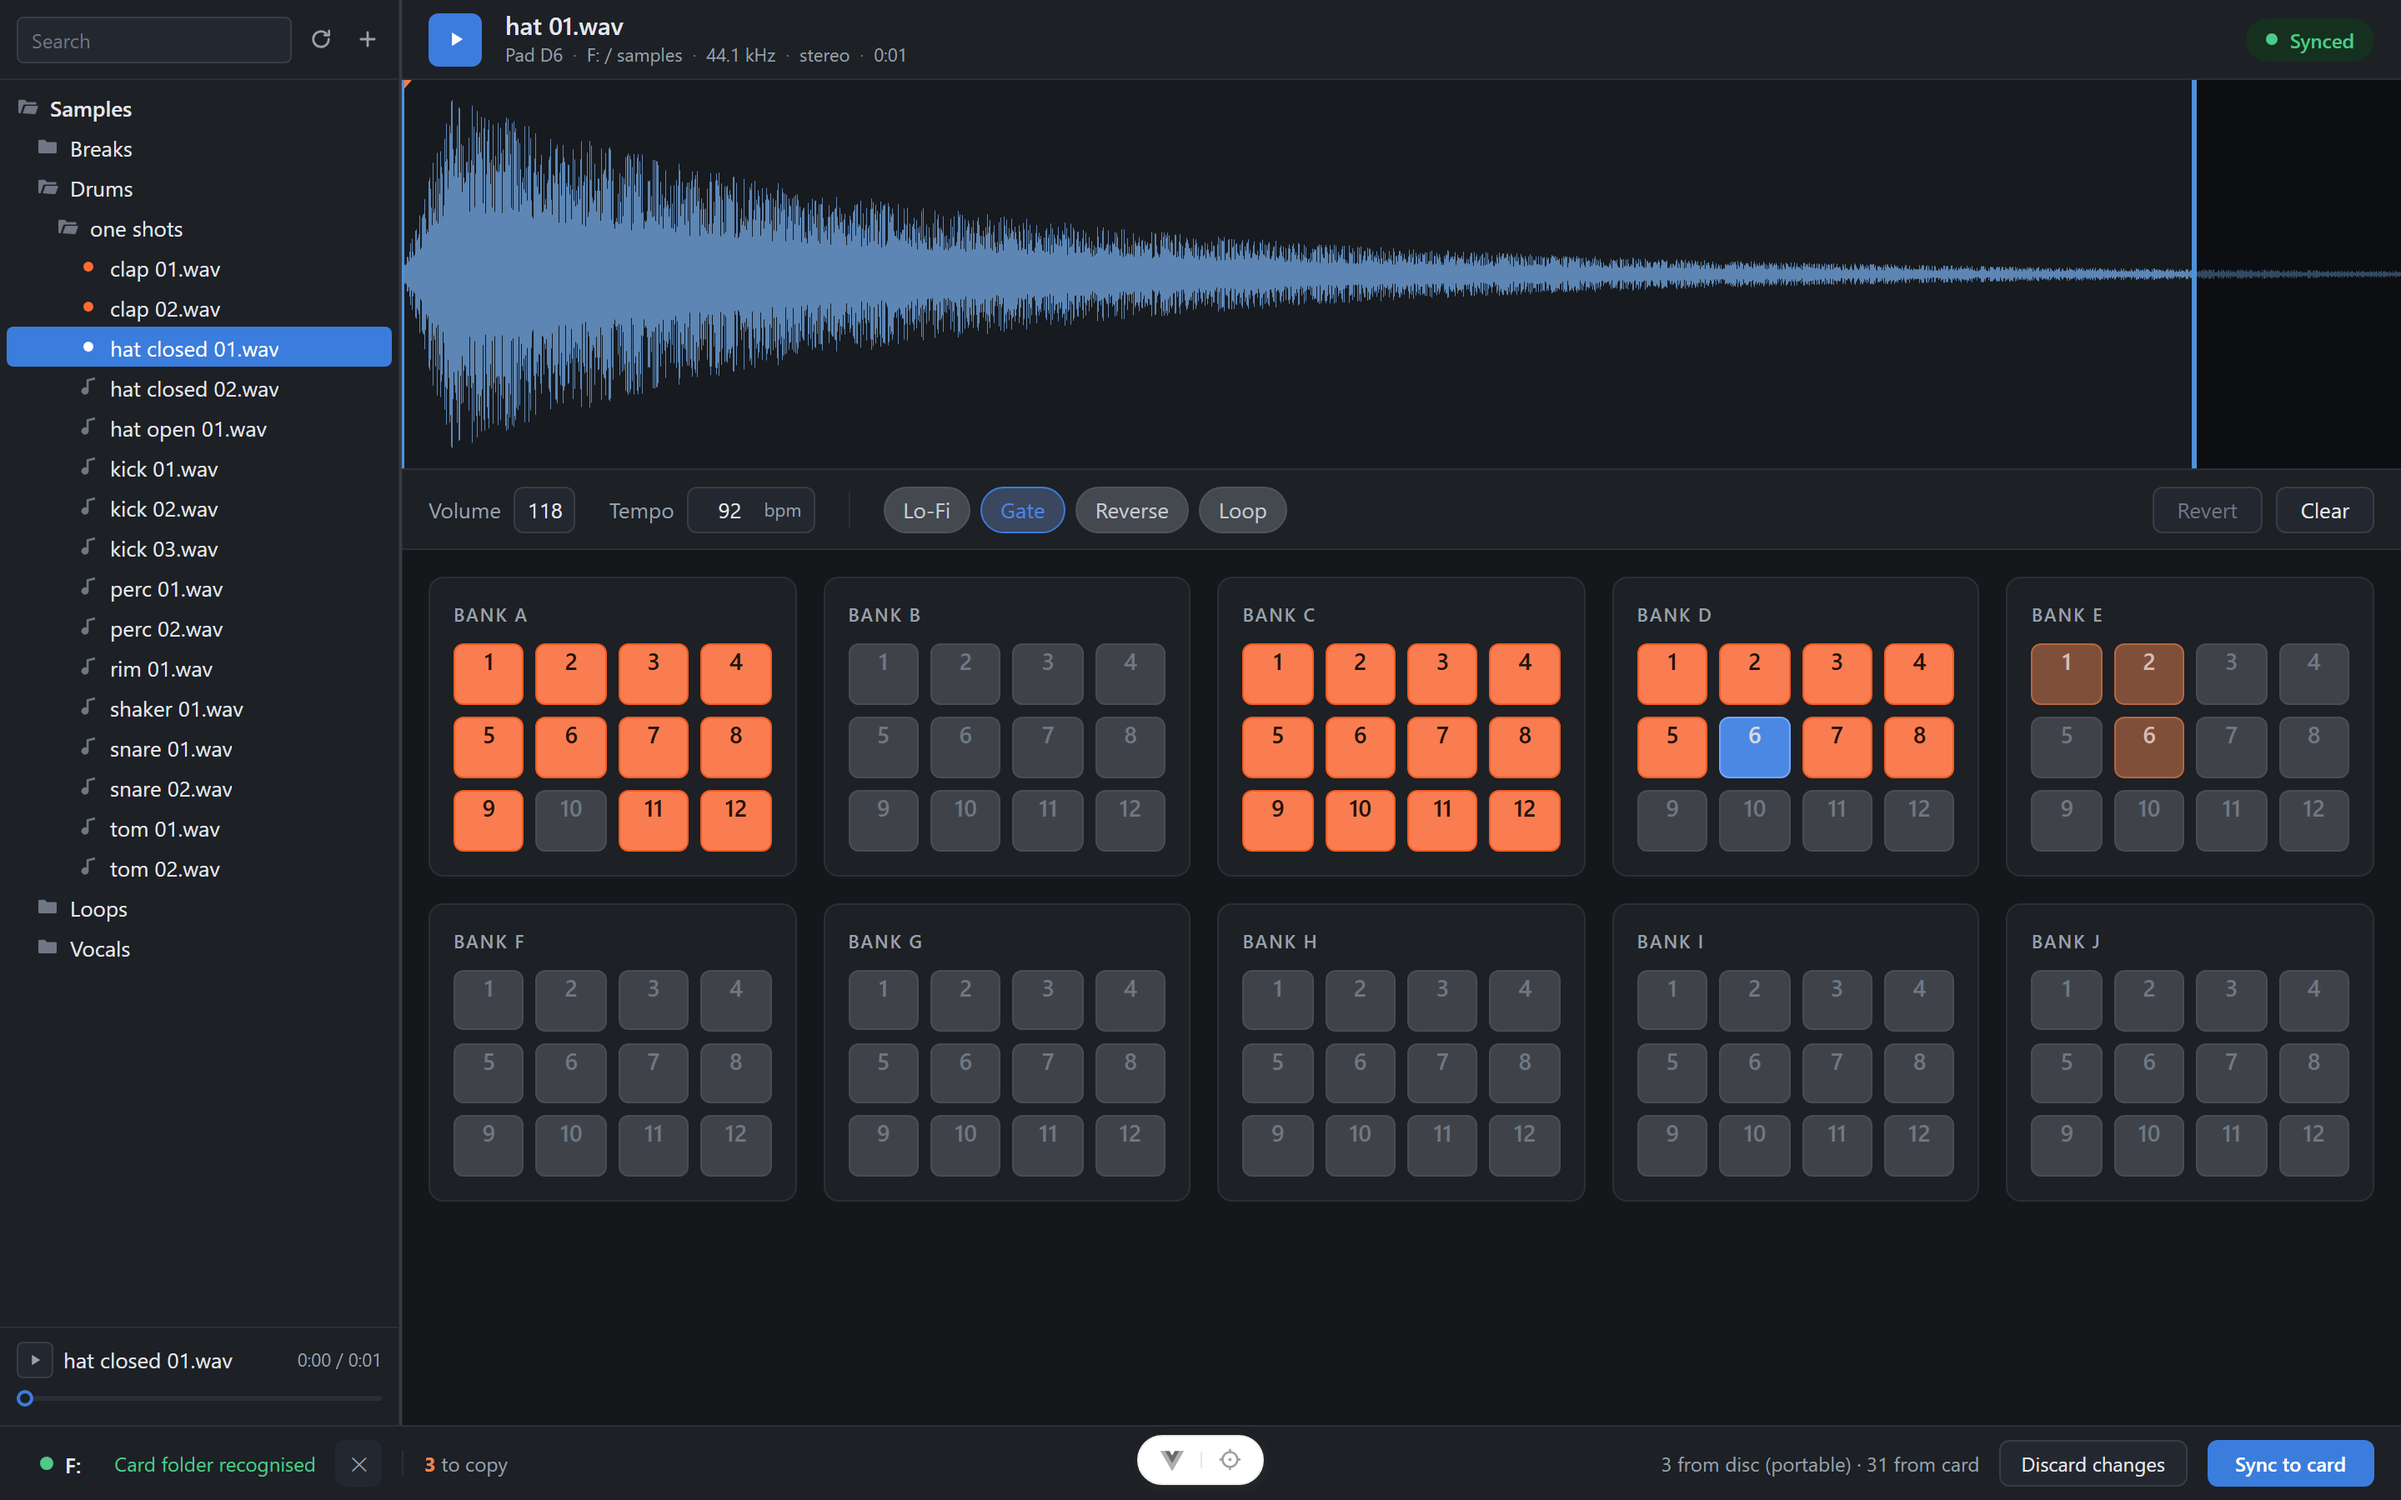
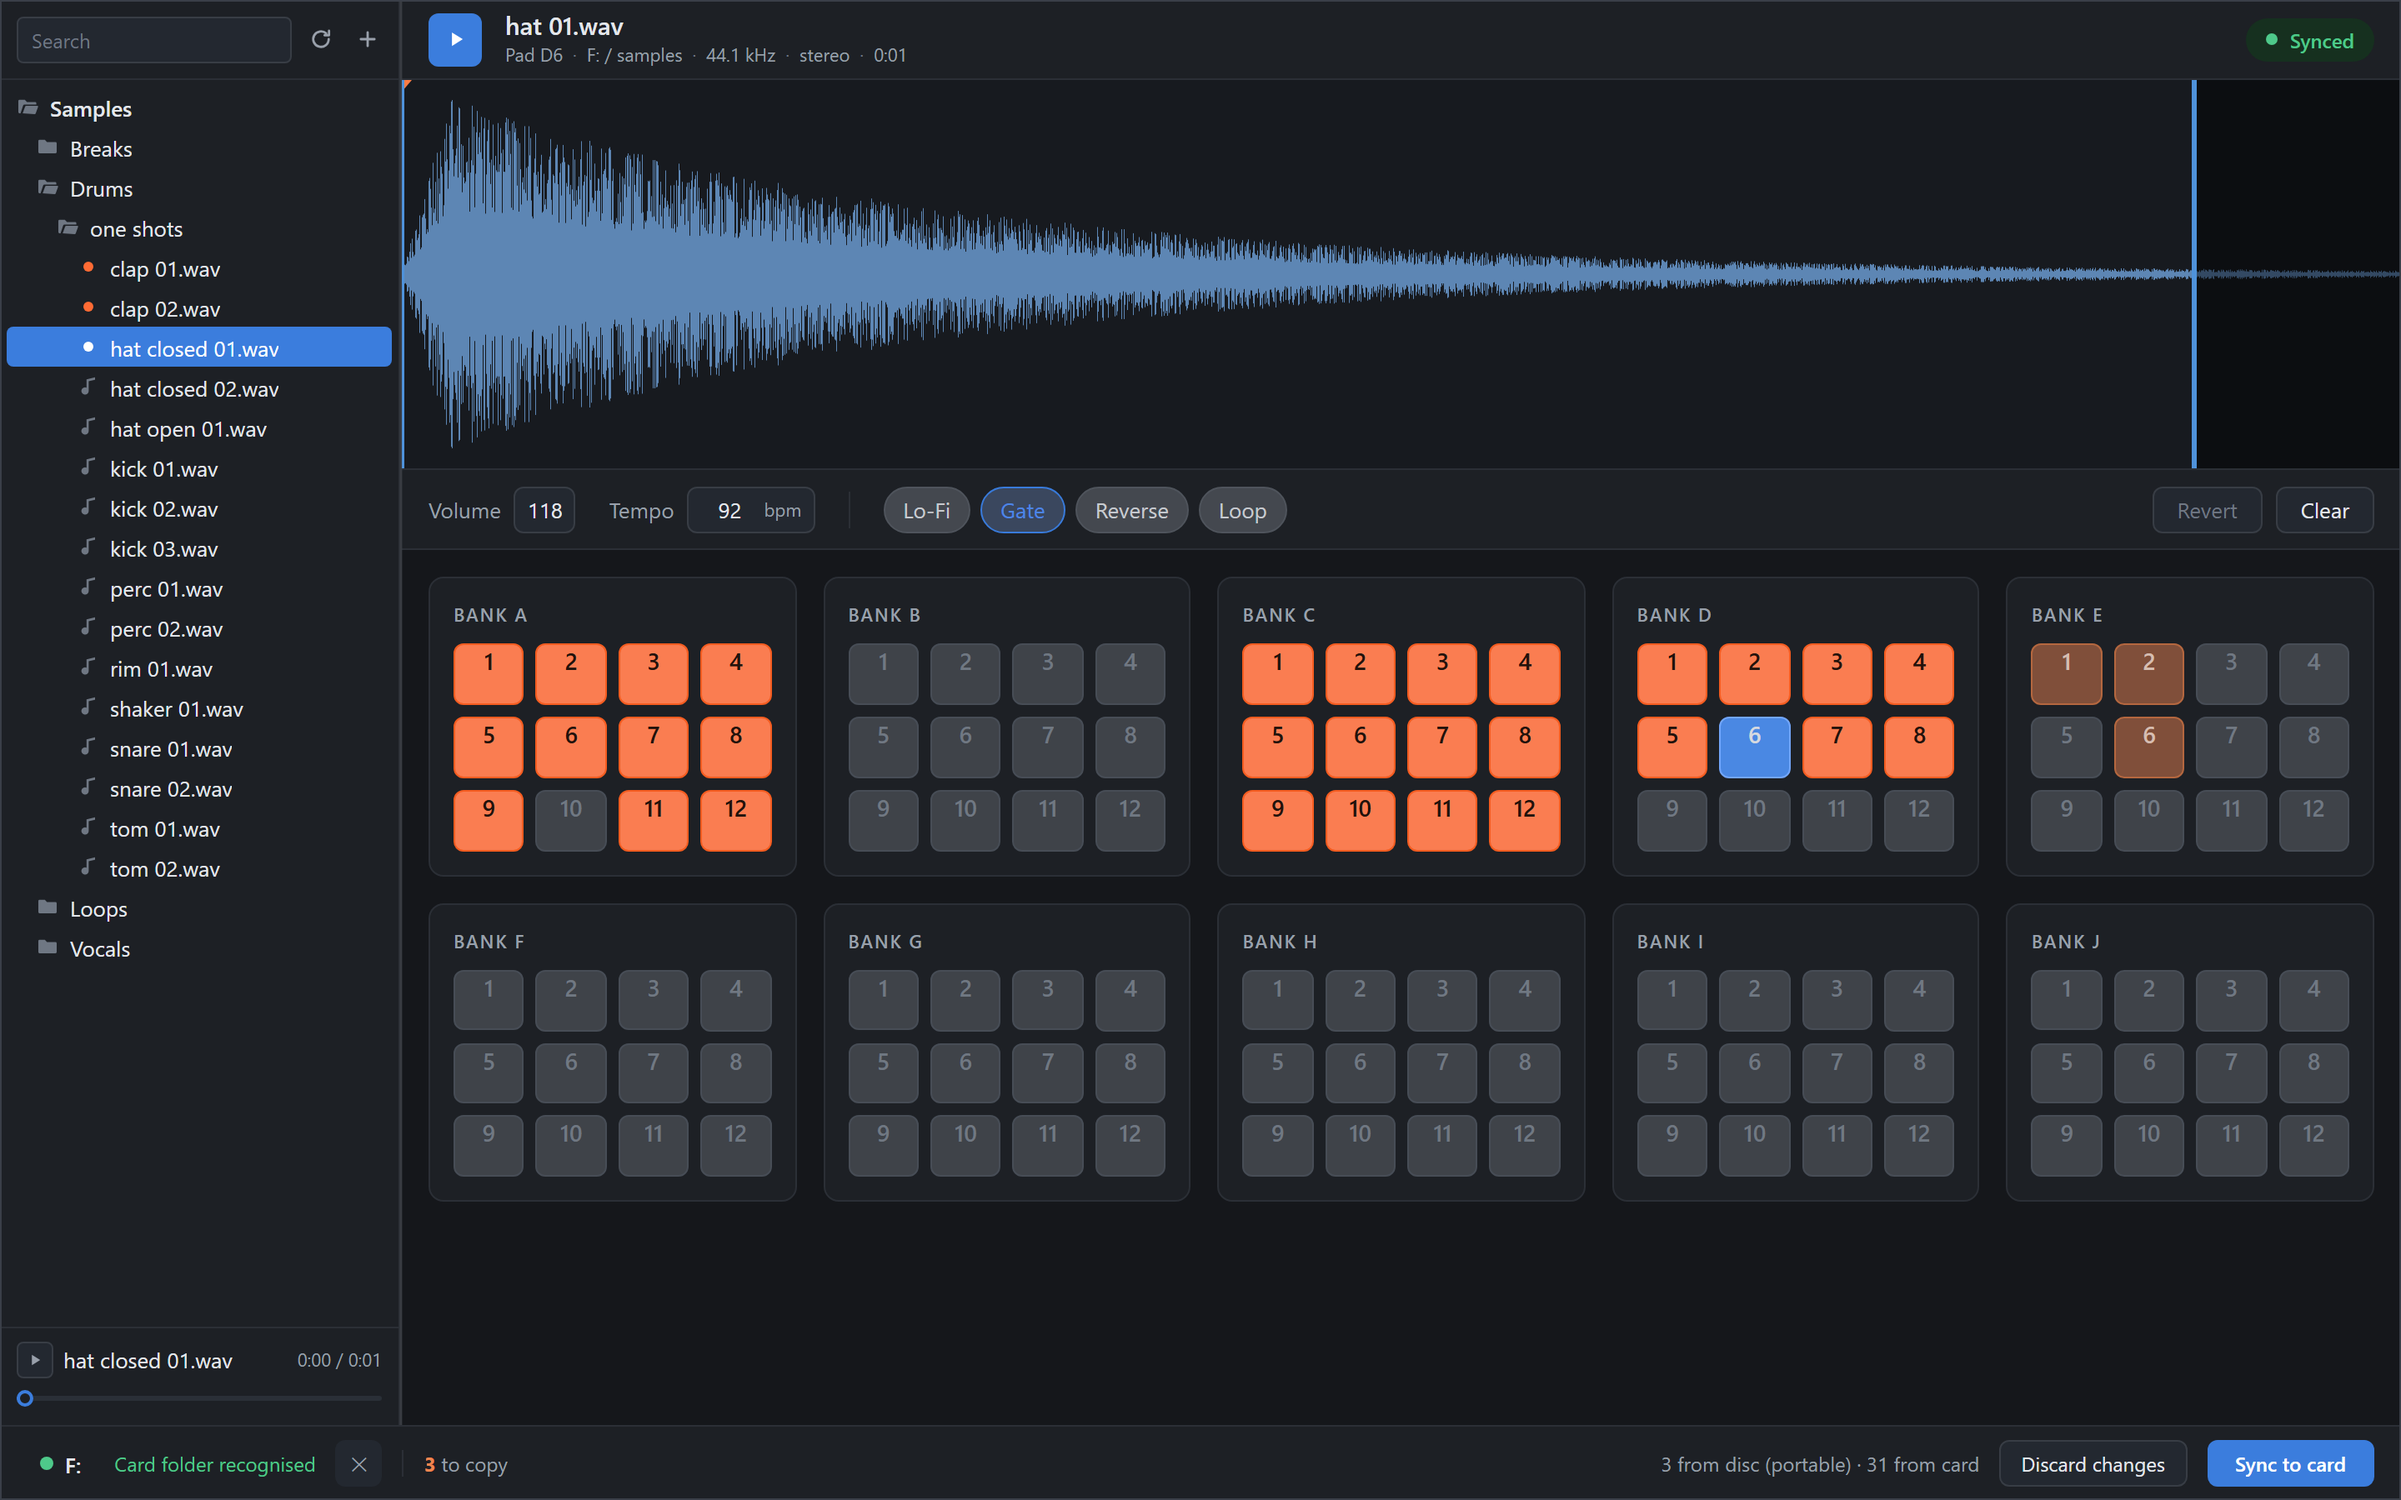
Improve screenshot script

Changed region(s): [[0.0, 0.9333, 1.0, 1.0]]

diff --git a/src-ui/index.html b/src-ui/index.html
@@ -16,11 +16,16 @@
       }
 
       .app-loading {
+        --loading-surface: #f4f5f7;
+        --loading-logo-body: #30353d;
+        --loading-pad-empty: #aab3c0;
+        --loading-pad-lit: #fa7d51;
+
         display: flex;
         align-items: center;
         justify-content: center;
         height: 100%;
-        background-color: #f5f5f7;
+        background-color: var(--loading-surface);
       }
 
       .app-loading-logo {
@@ -29,11 +34,11 @@
       }
 
       .app-loading-body {
-        fill: #4c5363;
+        fill: var(--loading-logo-body);
       }
 
       .app-loading-pad {
-        fill: #a9b7c4;
+        fill: var(--loading-pad-empty);
         transform-box: fill-box;
         transform-origin: center;
       }
@@ -45,36 +50,33 @@
 
       @keyframes app-loading-pad {
         0% {
-          fill: #a9b7c4;
+          fill: var(--loading-pad-empty);
           transform: scale(0.88);
         }
 
         4%,
         62% {
-          fill: #f58960;
+          fill: var(--loading-pad-lit);
           transform: scale(1);
         }
 
         72%,
         100% {
-          fill: #a9b7c4;
+          fill: var(--loading-pad-empty);
           transform: scale(0.88);
         }
       }
 
       @media (prefers-color-scheme: dark) {
         .app-loading {
-          background-color: #15171b;
-        }
-
-        .app-loading-body {
-          fill: #5a6274;
+          --loading-surface: #15171b;
+          --loading-logo-body: #e4e7ec;
         }
       }
 
       @media (prefers-reduced-motion: reduce) {
         .app-loading-pad--lit {
-          fill: #f58960;
+          fill: var(--loading-pad-lit);
           animation: none;
         }
       }

diff --git a/src-ui/e2e/readme-screenshots.spec.ts b/src-ui/e2e/readme-screenshots.spec.ts
@@ -132,6 +132,24 @@ test('captures the README screenshots', async ({ page }) => {
 
   await page.goto('/')
 
+  await page.addStyleTag({
+    content: `
+      #__vue-devtools-container__,
+      #vue-inspector-container {
+        display: none;
+      }
+
+      html::after {
+        content: '';
+        position: fixed;
+        inset: 0;
+        z-index: 99;
+        pointer-events: none;
+        border: 1px solid var(--panel-border-strong);
+      }
+    `,
+  })
+
   await page.getByRole('button', { name: 'Samples', exact: true }).click()
   await page.getByRole('button', { name: 'Drums' }).click()
   await page.getByRole('button', { name: 'one shots' }).click()
